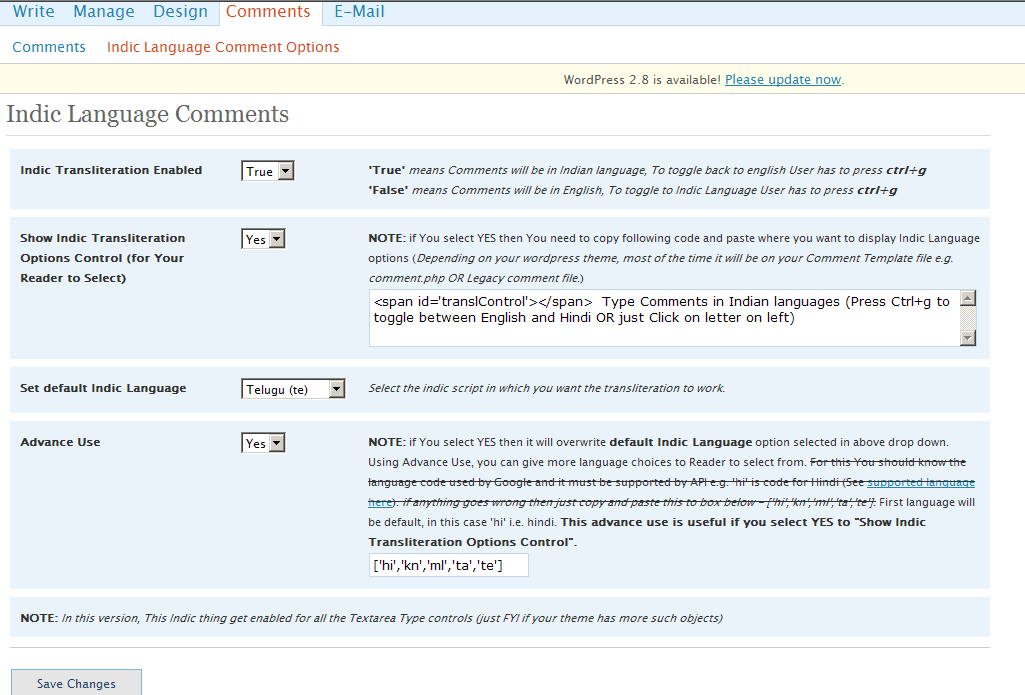
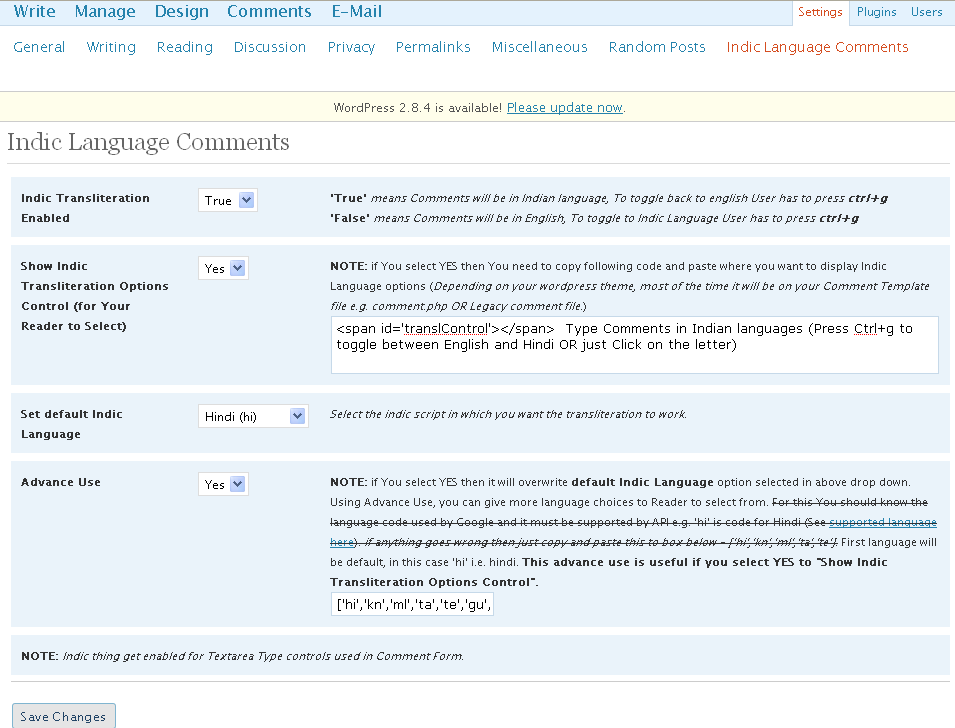
new languages added
git-svn-id: https://plugins.svn.wordpress.org/indic-language-comments/trunk@160828 b8457f37-d9ea-0310-8a92-e5e31aec5664

diff --git a/IndicLangComment.php b/IndicLangComment.php
@@ -4,7 +4,7 @@ Plugin Name: Indic Language Comments
 Plugin URI: http://www.readers-cafe.net/2009/06/21/indic-language-plugin-for-comments/
 Description: Indic Language plugin for Comments, It enables Indic Languages for comment form, When Visitors will write comments in Roman script this plugin automatically converts text into default Indian Script selected using google transliteration API. Visitors can use Ctrl G key combination to toggle between english and selected Indian langueage.
 Author: Tarun Joshi
-Version: 0.5
+Version: 0.7
 Author URI: http://www.readers-cafe.net/
 */
 
@@ -30,27 +30,33 @@ $lang='hi';  //default
 $enabled=1;   //True
 $showOpt=1;   //Yes
 $chkAdvance=1;  //Yes
-$multilang = 'hi'; //"['hi','kn','ml','ta','te']";  //default
+$multilang = 'hi'; //"['hi','kn','ml','ta','te','gu','mr','bn','pa','ur',ne','ar']";  //default
+$sNote = 'Type Comments in Indian languages (Press Ctrl+g to toggle between English and Hindi OR just Click on the letter) ';
 
 $lang = get_option('indicLanguage');
 $enabled = get_option('indicEnabled');
 $showOpt = get_option('indicControl');
 $chkAdvance = get_option('indicAdvance');
 $multilang = get_option('indicMultiLang');
+$sNote = get_option('indicNote');
 
 ?>
 
-<script type="text/javascript" src="http://www.google.com/jsapi"></script>
-<script type="text/javascript">
-      google.load("elements", "1", {
-            packages: "transliteration"
+<script type="text/javascript" src="http://www.google.com/jsapi">    
+</script>    
+<script type="text/javascript">      
+         // Load the Google Transliteration API      
+         google.load("elements", "1", {            
+              packages: "transliteration"          
           });
+
 	  var lang= decodeURIComponent("<?php echo rawurlencode($lang); ?>");
 	  var e= <?php echo $enabled; ?>;
+
       function onLoad() {
         var options = {
           sourceLanguage: 'en',            
-          destinationLanguage: <?php if ($chkAdvance==1) { echo "['hi','kn','ml','ta','te'],"; } else {?> lang, <?php } ?>    //'hi','kn','ml','ta','te'
+          destinationLanguage: <?php if ($chkAdvance==1) { echo "['hi','kn','ml','ta','te','gu','mr','bn','pa','ur','ne','ar'],"; } else {?> lang, <?php } ?>    //'hi','kn','ml','ta','te'
           shortcutKey: 'ctrl+g',   
           transliterationEnabled: e
         };
@@ -61,17 +67,27 @@ $multilang = get_option('indicMultiLang');
         var textArea=document.getElementsByTagName("textarea")[0].id;
         var ids = [textArea];
         control.makeTransliteratable(ids);
-        <?php if ($showOpt==1) { ?> control.showControl('translControl'); <?php } ?>
+        <?php if ($showOpt==1) { ?> control.showControl('translControl');  <?php }?>
         
       }
       google.setOnLoadCallback(onLoad);
+
 </script>
 
 <?php
+
+//show_text_cf($sNote);
+}
+
+/* This is the code that is inserted into the comment form */
+function show_text_cf ($showNote) {
+	global $sg_subscribe;
+         echo $showNote;
+
 }
 
 function indicLangCommentMenu() {
-  add_submenu_page('edit-comments.php', 'Indic Language Comments', 'Indic Language Comment Options', 8, 'IndicLangComment', 'indicLangCommentOpt');
+  add_submenu_page('options-general.php', 'Indic Language Comments', 'Indic Language Comments', 8, 'IndicLangComment', 'indicLangCommentOpt');
 
 }
 
@@ -82,6 +98,7 @@ if( $_POST['action' ] == 'update' ) {
  update_option( 'indicControl', $_POST['indicControl'] );
  update_option( 'indicAdvance', $_POST['indicAdvance'] );
  update_option( 'indicMultiLang', $_POST['indicMultiLang'] );
+ update_option( 'indicNote', $_POST['indicNote'] );
 
 }
 $lang = get_option('indicLanguage');
@@ -89,6 +106,7 @@ $enabled = get_option('indicEnabled');
 $showOpt = get_option('indicControl');
 $chkAdvance = get_option('indicAdvance');
 $multilang = get_option('indicMultiLang');
+$sNote = get_option('indicNote');
 ?>
 
 <div class="wrap">
@@ -118,7 +136,7 @@ $multilang = get_option('indicMultiLang');
 </select></td>
  <td>
 <b>NOTE:</b> if You select YES then You need to copy following code and paste where you want to display Indic Language options (<i>Depending on your wordpress theme, most of the time it will be on your Comment Template file e.g. comment.php OR Legacy comment file.</i>)<br> 
-<code><textarea style="width:600px;height:50px"><span id='translControl'></span>&nbsp; Type Comments in Indian languages (Press Ctrl+g to toggle between English and Hindi OR just Click on the letter) </textarea></code>
+<code><textarea name = "indicNote" style="width:600px;height:50px"><span id='translControl'></span>&nbsp; Type Comments in Indian languages (Press Ctrl+g to toggle between English and Hindi OR just Click on the letter) </textarea></code>
 </td>
 </tr>
 
@@ -130,6 +148,12 @@ $multilang = get_option('indicMultiLang');
 <option value="te" <?php if ($lang=="te") echo "selected";?>>Telugu (te)</option> 
 <option value="kn" <?php if ($lang=="kn") echo "selected";?>>kannad (kn)</option> 
 <option value="ml" <?php if ($lang=="ml") echo "selected";?>>Malyalam (ml)</option> 
+<option value="gu" <?php if ($lang=="gu") echo "selected";?>>Gujarati (gu)</option> 
+<option value="mr" <?php if ($lang=="mr") echo "selected";?>>Marathi (mr)</option> 
+<option value="bn" <?php if ($lang=="bn") echo "selected";?>>Bengali (bn)</option> 
+<option value="pa" <?php if ($lang=="pa") echo "selected";?>>Punjabi (pa)</option> 
+<option value="ur" <?php if ($lang=="ur") echo "selected";?>>Urdu (ur)</option> 
+<option value="ne" <?php if ($lang=="ne") echo "selected";?>>Nepali (ne)</option> 
 <option value="ar" <?php if ($lang=="ar") echo "selected";?>>Arabic (ar)</option> 
 </select></td>
 <td>
@@ -144,7 +168,7 @@ $multilang = get_option('indicMultiLang');
 </select></td>
  <td>
 <b>NOTE:</b> if You select YES then it will overwrite <b>default Indic Language</b> option selected in above drop down. Using Advance Use, you can give more language choices to Reader to select from. <del>For this You should know the language code used by Google and it must be supported by API e.g. 'hi' is code for Hindi (See <a href="http://code.google.com/apis/ajaxlanguage/documentation/#TransliterationSupportedLanguages" target="_blank">supported language here</a>). <i>if  anything goes wrong then just copy and paste this to box below - ['hi','kn','ml','ta','te']</i>.</del> First language will be default, in this case 'hi' i.e. hindi. <b>This advance use is useful if you select YES to "Show Indic Transliteration Options Control".</b> <br> 
-<code><input type='textbox' name="indicMultiLang" value="['hi','kn','ml','ta','te']" /></code> <br>
+<code><input type='textbox' name="indicMultiLang" value="['hi','kn','ml','ta','te','gu','mr','bn','pa','ur',ne','ar']" /></code> <br>
 
 </td>
 </tr>
@@ -166,6 +190,6 @@ $multilang = get_option('indicMultiLang');
 <?php
 }
 
-add_action('comment_form',  'indicLangCommentCO');
+add_action('comment_form',  'indicLangCommentCO',5);
 add_action('admin_menu', 'indicLangCommentMenu');
 ?>
